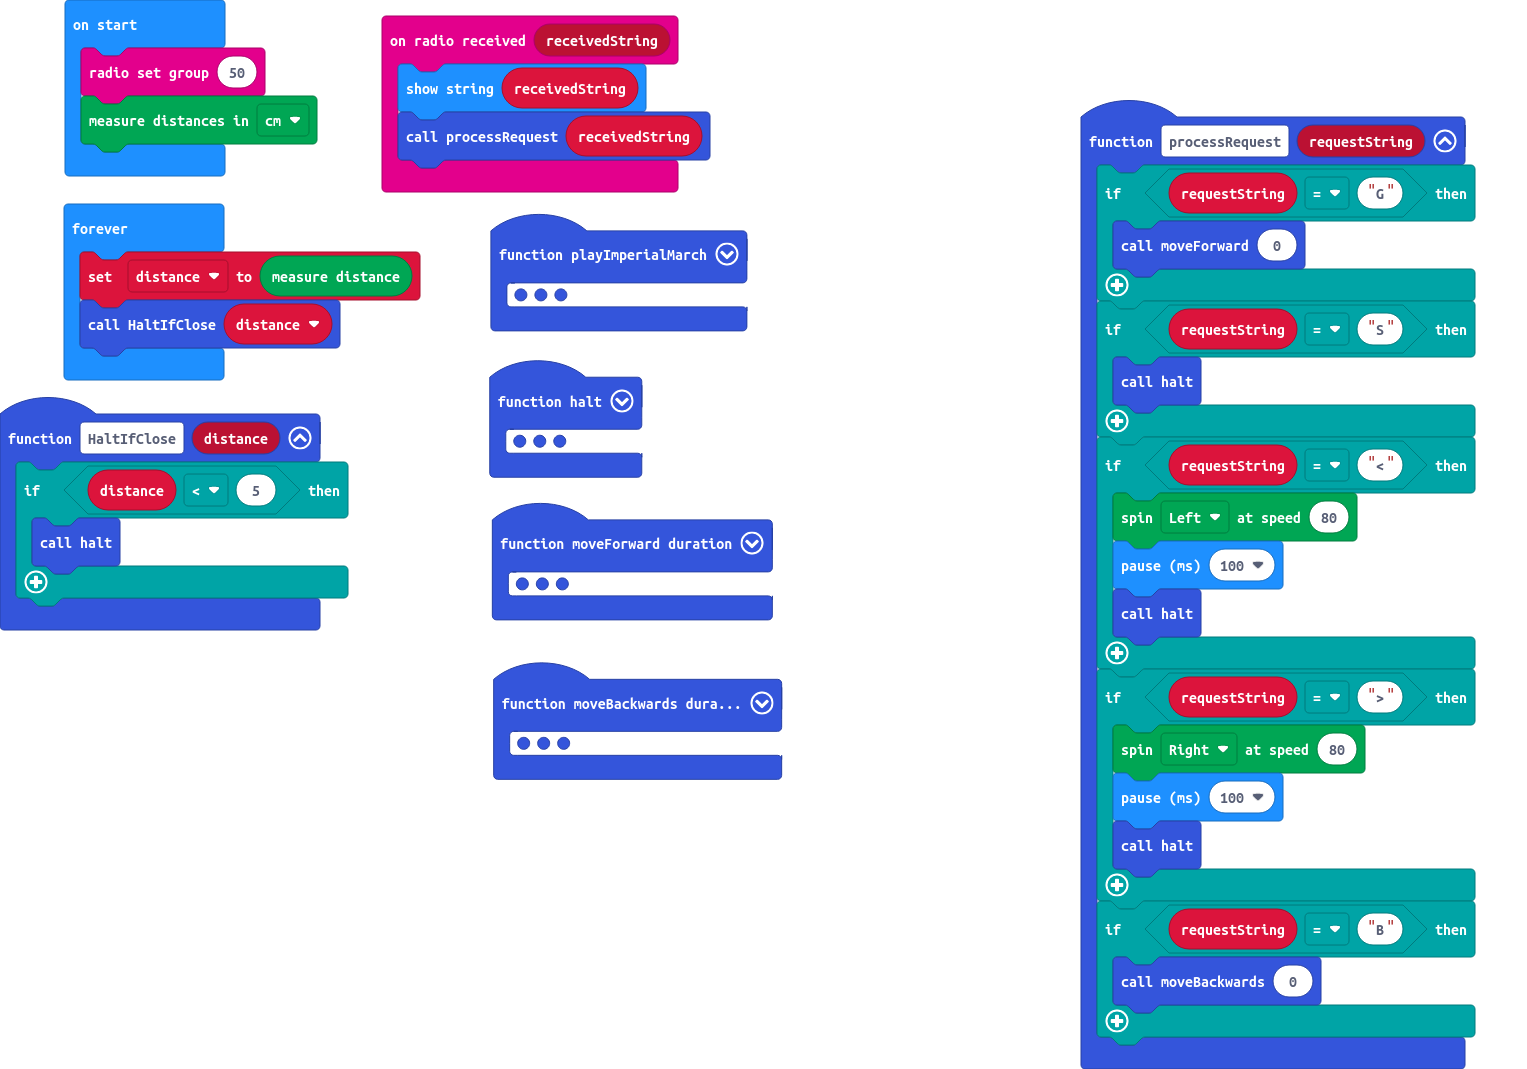
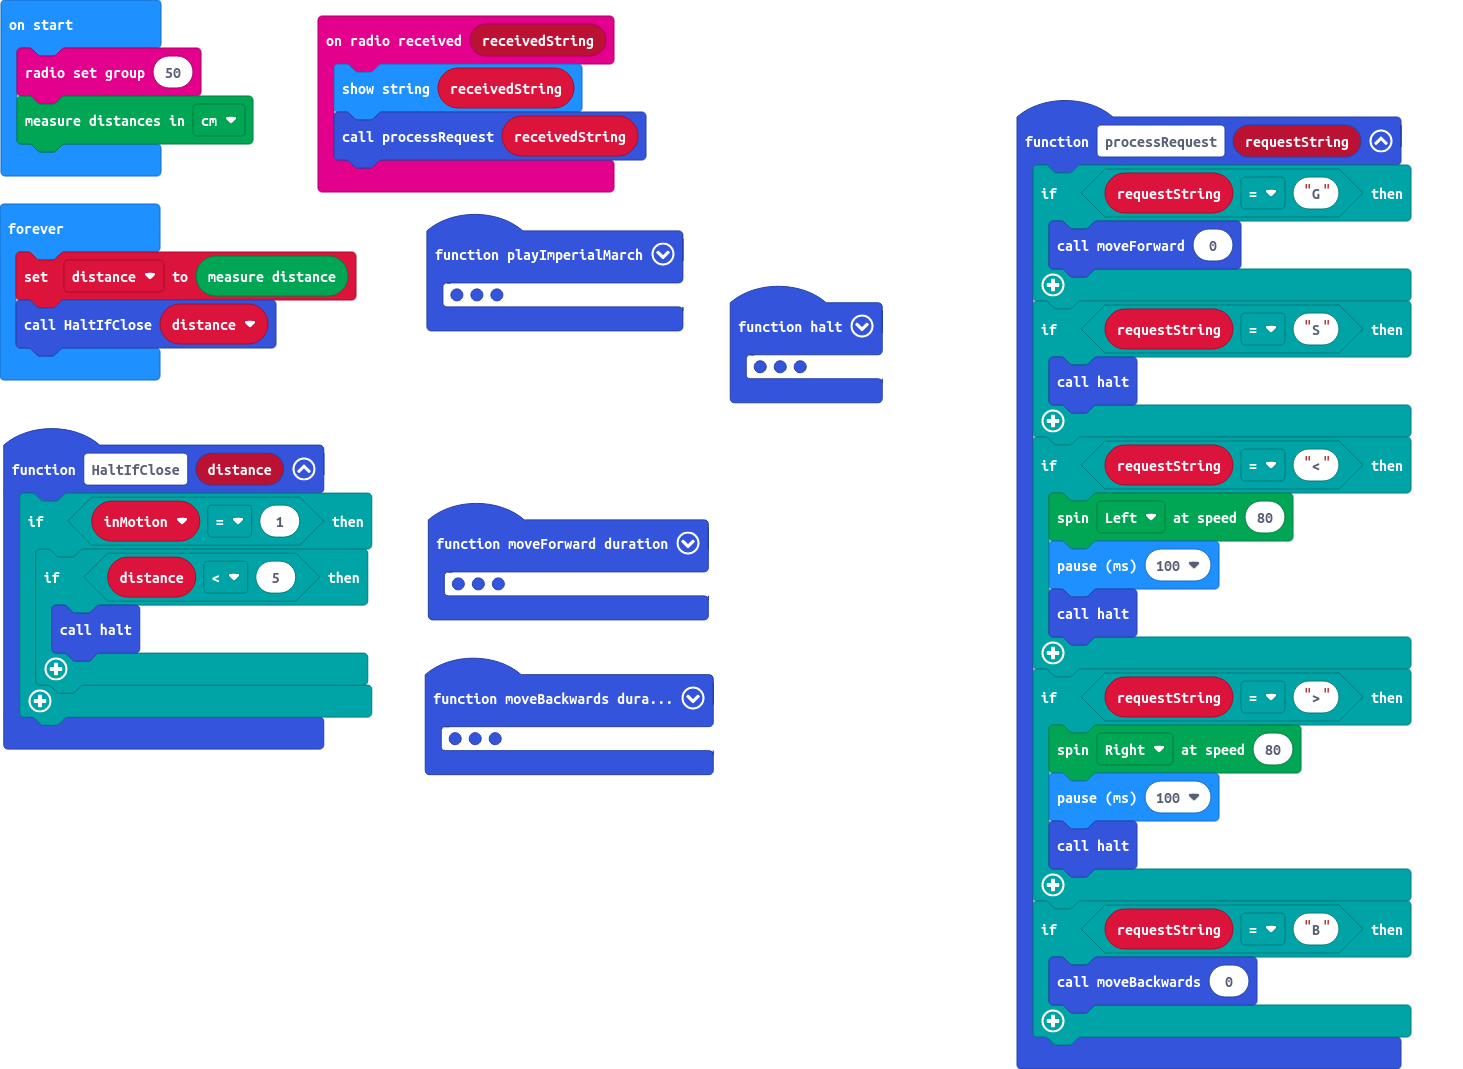
Added in motion variable to prevent repeat halting

Changed region(s): [[0.0, 0.0, 0.6152, 0.7409], [0.6767, 0.0926, 0.9843, 1.0], [0.9535, 0.9878, 0.9843, 1.0]]

diff --git a/main.ts b/main.ts
@@ -1,6 +1,8 @@
 function HaltIfClose (distance: number) {
-    if (distance < 5) {
-        halt()
+    if (inMotion == 1) {
+        if (distance < 5) {
+            halt()
+        }
     }
 }
 function processRequest (requestString: string) {
@@ -25,6 +27,7 @@ function processRequest (requestString: string) {
     }
 }
 function moveForward (duration: number) {
+    inMotion = 1
     moveMotorZIP = Kitronik_Move_Motor.createMoveMotorZIPLED(4)
     moveMotorZIP.showColor(Kitronik_Move_Motor.colors(Kitronik_Move_Motor.ZipLedColors.Yellow))
     moveMotorZIP.show()
@@ -45,6 +48,7 @@ function playImperialMarch () {
     music.playTone(392, music.beat(BeatFraction.Whole))
 }
 function moveBackwards (duration: number) {
+    inMotion = 1
     moveMotorZIP = Kitronik_Move_Motor.createMoveMotorZIPLED(4)
     moveMotorZIP.showColor(Kitronik_Move_Motor.colors(Kitronik_Move_Motor.ZipLedColors.Green))
     Kitronik_Move_Motor.beepHorn()
@@ -60,6 +64,7 @@ radio.onReceivedString(function (receivedString) {
     processRequest(receivedString)
 })
 function halt () {
+    inMotion = 0
     Kitronik_Move_Motor.beepHorn()
     Kitronik_Move_Motor.stop()
     moveMotorZIP = Kitronik_Move_Motor.createMoveMotorZIPLED(4)
@@ -68,6 +73,7 @@ function halt () {
 }
 let distance = 0
 let moveMotorZIP: Kitronik_Move_Motor.MoveMotorZIP = null
+let inMotion = 0
 radio.setGroup(50)
 Kitronik_Move_Motor.setUltrasonicUnits(Kitronik_Move_Motor.Units.Centimeters)
 basic.forever(function () {
